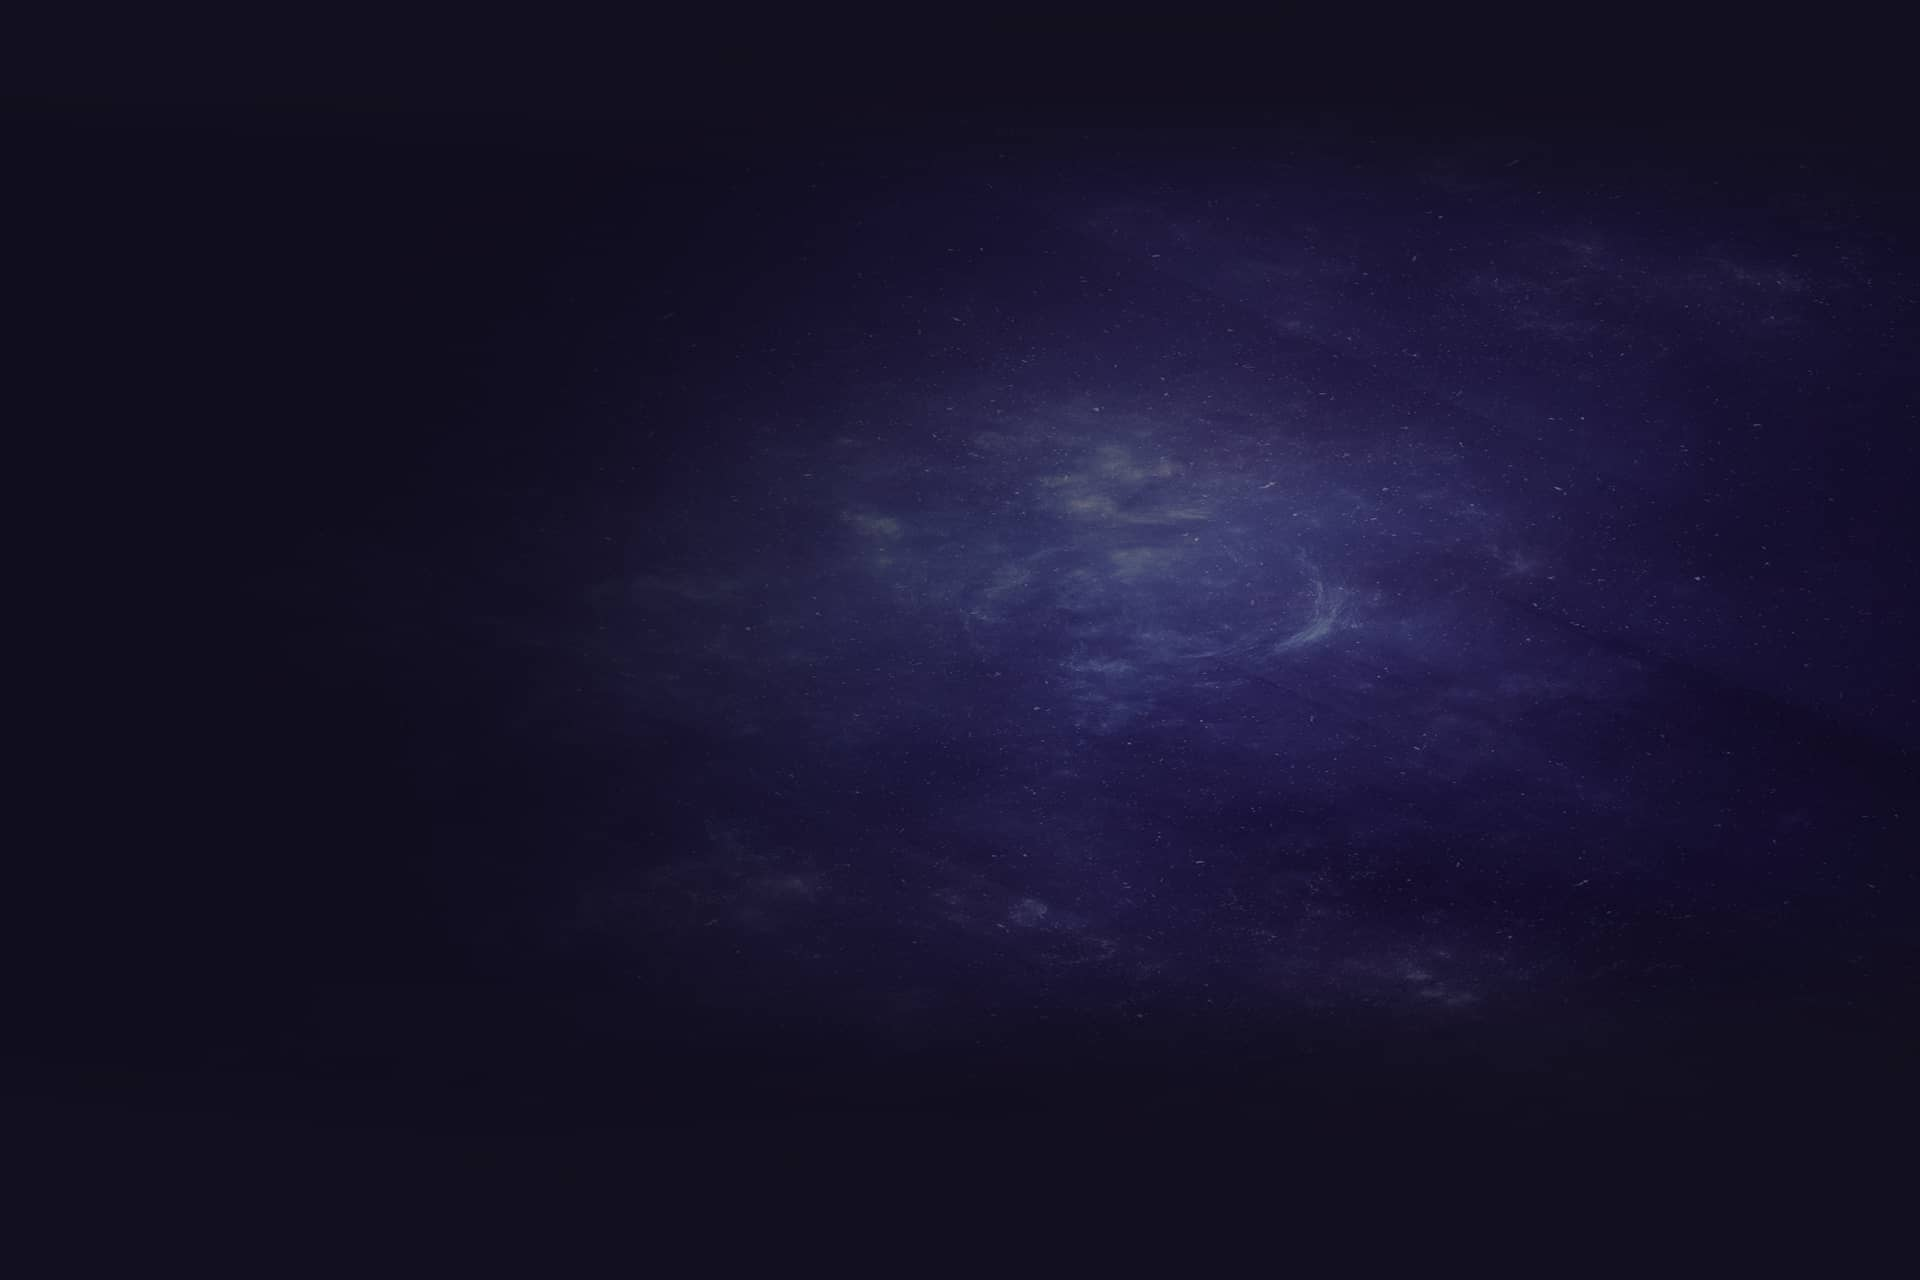
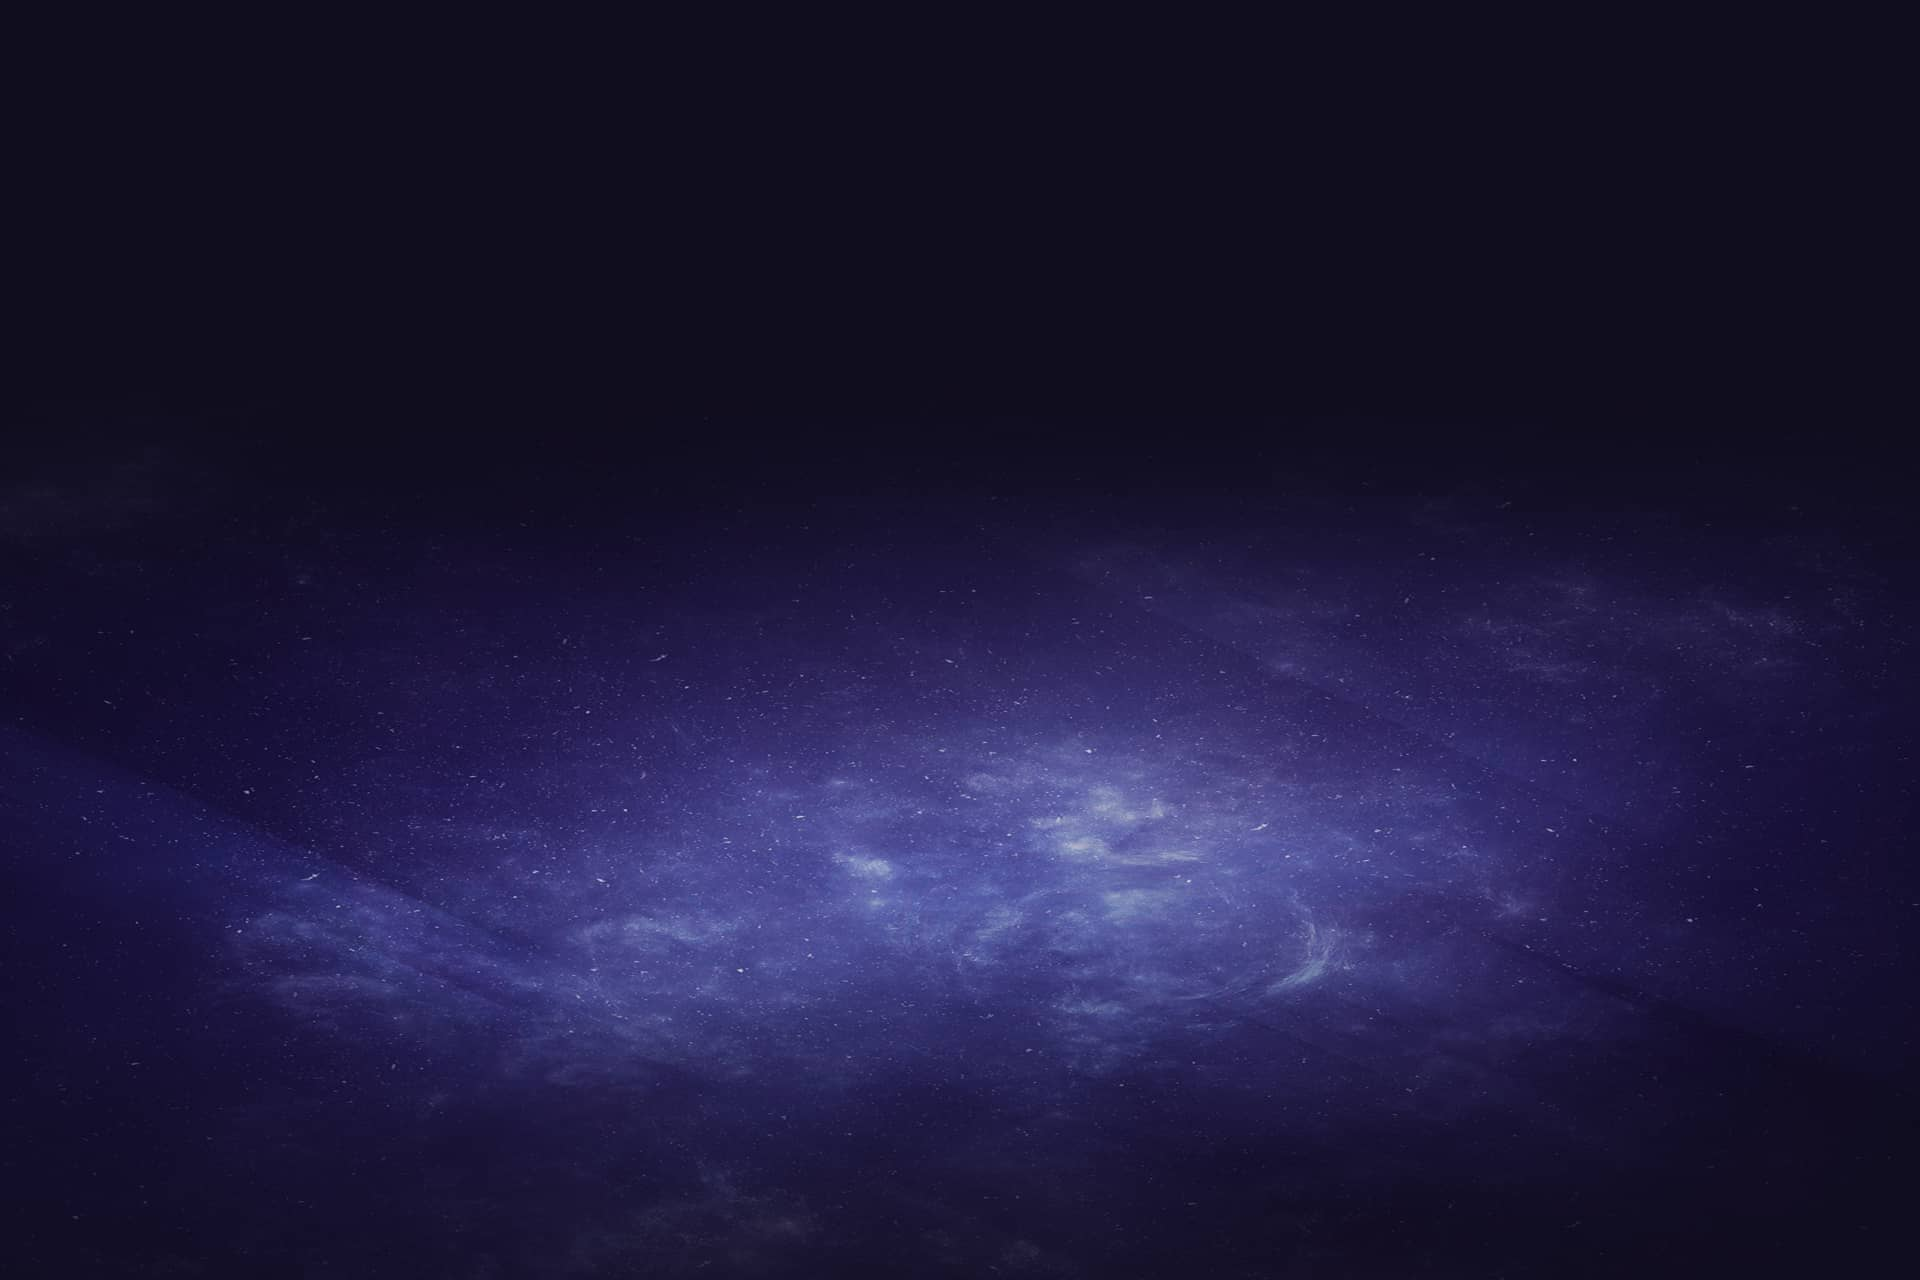
almost done

diff --git a/src/components/Header/header.css b/src/components/Header/header.css
@@ -1,19 +1,28 @@
 
 .headerContainer{
-  background-color: rgb(10, 1, 19);
+  background-color: #110F1E;
   position: fixed;
   top: 0;
   width: 100%;
   z-index: 100;
 }
 .navbar-light .navbar-nav .nav-link {
-  color: white
+  color: white;
+  font-size: 16px;
+  text-transform: uppercase;
+  font-weight: 400;
+  letter-spacing: 1.5px;
+}
+.navbar-light .navbar-nav .nav-link:hover{
+  transform: scale(1.2);
+  color: rgb(63, 63, 223);
+  transition: transform 0.5s;
 }
 .logo{
   width: 90px;
-  height: 90px;
+  height: auto;
   position: relative;
-  top: 25px;
+  top: 3px;
 }
 
 .headerContainer .header-btn{
@@ -28,9 +37,6 @@
   background: #292bf2;
   transition: 0.2;
 }
-.headerContainer button{
-  background-color: rgb(241, 237, 237);
-}
 
 
 @media only screen and (min-width:992px){
@@ -39,26 +45,48 @@
     align-items: center;
     justify-content: center;
     width: 100%;
-    column-gap: 20px;
+    column-gap: 4vw;
   }
   .firstBrand{
     display: none;
   }
 }
 @media only screen and (max-width:991px){
+  .headerContainer{
+    padding: 20px 0;
+  }
   .midBrand{
     display: none;
   }
   .firstBrand{
     display: block;
-    position: relative;
-    left: calc(-60vw);
+    position: absolute;
+    top: -35px;
+    left: 20px;
+  }
+  .headerNav{
+    padding: 20px;
+    margin-top: 30px;
+  }
+  .header-btn{
+    display:none
   }
   .navbar-toggler{
     position: relative;
     top: 0;
     width: 60px;
     left: calc(100% - 70px);
+  }
+  .navbar-light .navbar-nav .nav-link{
+    text-transform:capitalize
+  }
+  .navbar-light .navbar-nav .nav-link:hover{
+    transform: scale(1);
+    
+  }
+  .navbar-light .navbar-toggler-icon{
+    background-image: url(../../images/menu.png);
+    border-radius: 4px;
   }
 }
 

diff --git a/src/components/Social/Social.js b/src/components/Social/Social.js
@@ -1,33 +1,32 @@
 import React from 'react'
 import './social.css'
-import {BsDiscord} from 'react-icons/bs'
-import {BsInstagram} from 'react-icons/bs'
-import {BsTwitter} from 'react-icons/bs'
+import { BsDiscord } from 'react-icons/bs'
+import { BsInstagram } from 'react-icons/bs'
+import { BsTwitter } from 'react-icons/bs'
 import { Col, Image, Row } from 'react-bootstrap'
 export default function Social() {
   return (
     <div className='socialContainer'>
-      <h1>SOCIAL NETWORKS</h1>
-      <Row className='socialImgContainer'>
-        <Col md={3}>
-          <div>
-            <BsDiscord />
+      <h1 className='section-title'>SOCIAL NETWORKS</h1>
+      
+          <div className='socialImgContainer'>
+            <div>
+              <BsDiscord />
+              <p style={{fontSize:'20px'}}>Discord</p>
+            </div>
+
+            <div>
+              <BsInstagram />
+              <p style={{fontSize:'20px'}}>Instagram</p>
+            </div>
+
+            <div>
+              <BsTwitter />
+              <p style={{fontSize:'20px'}}>Twitter</p>
+            </div>
           </div>
-          <h4>Discord</h4>
-        </Col>
-        <Col md={3}>
-          <div>
-            <BsInstagram />
-          </div>
-          <h4>Instagram</h4>
-        </Col>
-        <Col md={3}>
-          <div>
-            <BsTwitter />
-          </div>
-          <h4>Twitter</h4>
-        </Col>
-      </Row>
+        
+      
       <Row className='footer'>
         <Col >
           <p>Copyright Lil Rockstar 2022. All Rights Reserved</p>

diff --git a/src/components/Social/social.css b/src/components/Social/social.css
@@ -1,32 +1,39 @@
 
 .socialContainer{
   text-align: center;
-  background-color: rgb(12, 6, 66);
+  background-image: url(../../images/footer.jpg);
+  background-size: cover;
+  background-repeat: no-repeat;
   color: white;
   padding-top: 100px;
+  
 }
 
 .socialImgContainer{
   display: flex;
   justify-content: center;
-  height: 350px;
+  flex-direction: row;
+  
 }
 
 .socialImgContainer svg{
-  font-size: 200px;
-  background-color: blue;
-  padding: 50px;
+  font-size: 120px;
+  background-color: #3f367b;
+  padding: 30px;
   border-radius: 20px;
+  margin-bottom: 15px;
 }
 .socialImgContainer div{
-  background-color: red;
+  background-color: #342d60;
   margin: 20px;
   border-radius: 20px;
-  padding: 10px 0;
+  padding: 30px 30px 0 30px;
+
 }
 
 .footer{
-  background-color: red;
   margin-top: 100px;
   padding: 20px 0;
+  border-top: 1px solid lightgray;
+  color: rgb(230, 230, 230)
 }

diff --git a/src/components/Team/team.css b/src/components/Team/team.css
@@ -1,27 +1,27 @@
 .teamContainer{
-  background-color: #060e24;
+  background-color: #110F1E;
   color: white;
   text-align: center;
   padding: 100px 0;
 }
 
-.teamContainer .name{}
 .teamContainer .title{
-  color:rgb(221, 162, 53)
+  color:#e3a35c
 }
 .teamCardContainer{
   justify-content: center;
 }
 .teamCardContainer img{
   width: 270px;
-  background-color: rgb(18, 18, 54);
+  background-color: #241f42;
   border-radius: 30px;
   padding: 30px;
   margin: 20px 0;
 
 }
+/* #3f367b;#342d60; */
 .teamCardContainer div{
-  background-color: #0c2057;
+  background-color: #231c4f;
   margin: 10px;
   display: flex;
   flex-direction: column;

diff --git a/public/index.html b/public/index.html
@@ -9,6 +9,10 @@
       name="description"
       content="Web site created using create-react-app"
     />
+    <link rel="preconnect" href="https://fonts.googleapis.com">
+  <link rel="preconnect" href="https://fonts.gstatic.com" crossorigin>
+  <link href="https://fonts.googleapis.com/css2?family=Varela&display=swap" rel="stylesheet">
+  <link href="https://fonts.googleapis.com/css2?family=Poppins:wght@200;300;400&display=swap" rel="stylesheet">
     <link rel="apple-touch-icon" href="%PUBLIC_URL%/logo192.png" />
     <!--
       manifest.json provides metadata used when your web app is installed on a

diff --git a/src/components/Collection/Collection.js b/src/components/Collection/Collection.js
@@ -11,7 +11,7 @@ export default function Collection() {
   return (
     <div className='collectionContainer'>
       <div className="innerContainer">
-      <h1>OUR SPECIAL LEGENDARY COLLECTION</h1>
+      <h1 className='section-title' style={{fontSize:'48px', marginBottom:'30px'}}>OUR SPECIAL LEGENDARY COLLECTION</h1>
       <Row>
       <Col className='collection-carousels'>
             <div className='collection-caro'>

diff --git a/src/App.css b/src/App.css
@@ -1,0 +1,20 @@
+h1, h2, h3, h4, h5, h6{
+  font-family: 'Varela', sans-serif;
+  font-weight: 900;
+}
+p{
+  font-family: "Poppins", Sans-serif;
+  font-weight: 300;
+  font-size: 15px;
+  line-height: 2em;
+  letter-spacing: 0.5px;
+}
+
+.section-title{
+  font-size: 56px;
+    font-weight: 600;
+    text-transform: uppercase;
+    line-height: 1.1em;
+    letter-spacing: -0.5px;
+    margin-bottom: 50px;
+}

diff --git a/src/components/Team/Team.js b/src/components/Team/Team.js
@@ -10,7 +10,7 @@ import Nft6 from '../../images/nft6.png'
 export default function Team() {
   return (
     <div className='teamContainer'>
-      <h1 className='mb-5'>MEET OUR TEAM</h1>
+      <h1 className='section-title'>MEET OUR TEAM</h1>
       <Row className='teamCardContainer'>
         <Col md={3}>
           <div>

diff --git a/src/components/Roadmap/Roadmap.js b/src/components/Roadmap/Roadmap.js
@@ -26,7 +26,7 @@ export default function Roadmap() {
   }
   return (
     <div className='roadmapContainer'>
-      <h1>Career</h1>
+      <h1 className='section-title'>Career</h1>
         <div className='carouselHeader'></div>
       <Carousel responsive={responsive} className='carouselContainer'>
       <div>

diff --git a/src/components/Benefit/Benefit.js b/src/components/Benefit/Benefit.js
@@ -9,7 +9,7 @@ export default function Benefit() {
   return (
     <div className='benefitContainer'>
       <div className='text-center benefitTitle'>
-        <h1 >BENEFITS & UTILITIES</h1>
+        <h1 className='section-title'>BENEFITS & UTILITIES</h1>
       </div>
       <Row>
         <Col md={3}>

diff --git a/src/components/Faq/Faq.js b/src/components/Faq/Faq.js
@@ -7,7 +7,7 @@ export default function Faq() {
       <Row>
         <Col className='d-flex align-items-center justify-content-center'>
           <div className='faq-left'>
-          <h1>FAQ</h1>
+          <h1 className='section-title'>FAQ</h1>
           </div>
         </Col>
         <Col>

diff --git a/src/components/Faq/faq.css b/src/components/Faq/faq.css
@@ -2,7 +2,7 @@
 
 
 .faqContainer{
-  background-color: rgb(17, 7, 61);
+  background-color: #110F1E;
   color: white;
 }
 
@@ -14,4 +14,9 @@
   text-align: center;
   min-width: 250px;
   padding: 20px
+}
+
+.accordion-item,.accordion-button{
+  background-color:#110F1E ;
+  color: white;
 }
